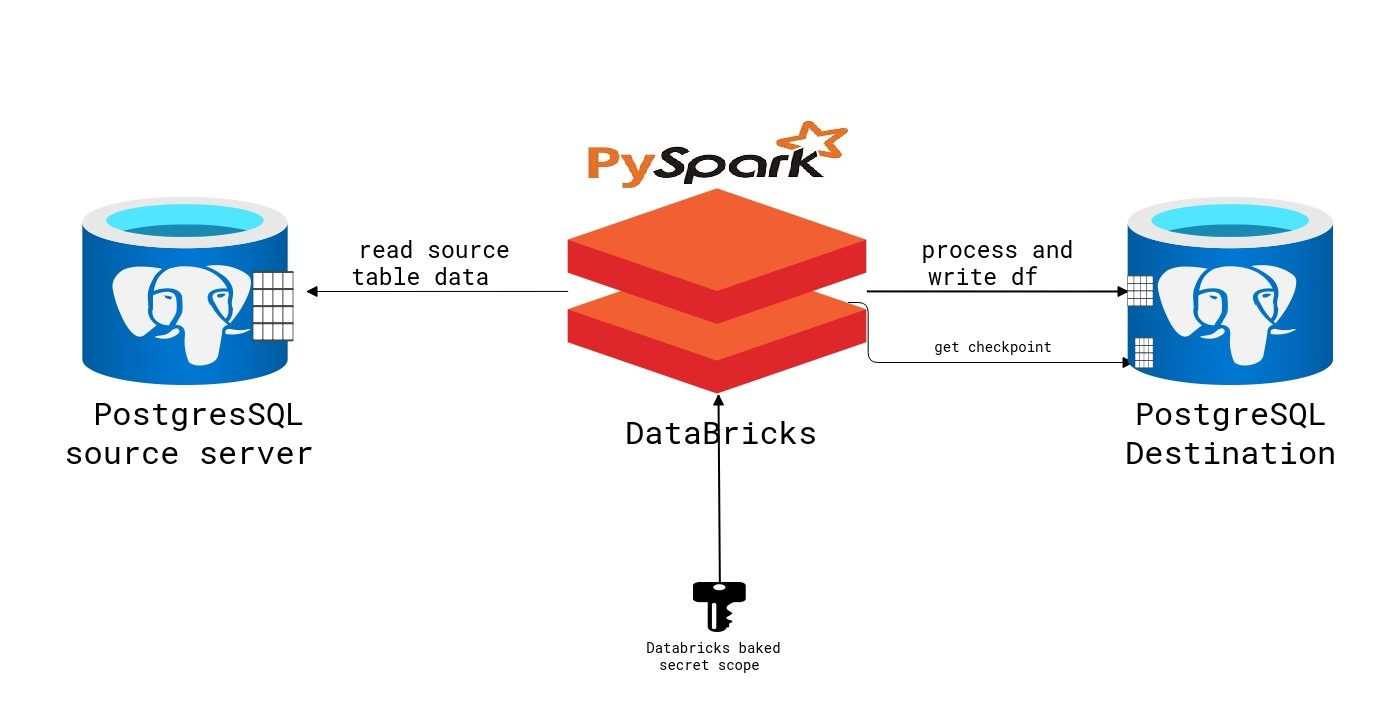
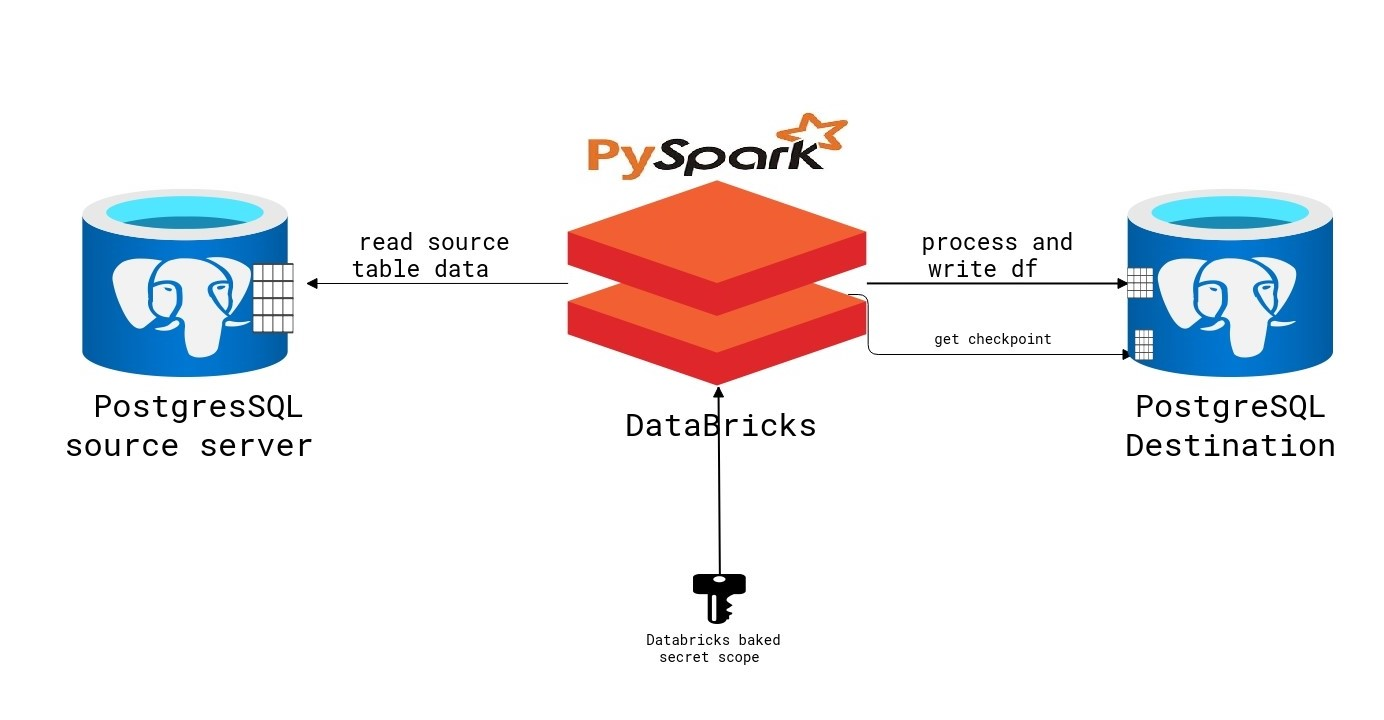
updated

diff --git a/Usecases/From_DB_To_DB/Readme.md b/Usecases/From_DB_To_DB/Readme.md
@@ -1,4 +1,4 @@
 ## Architecture
 
 
-![Images](Images\d2d.JPG)
+![Images](Images\d2d.jpg)
